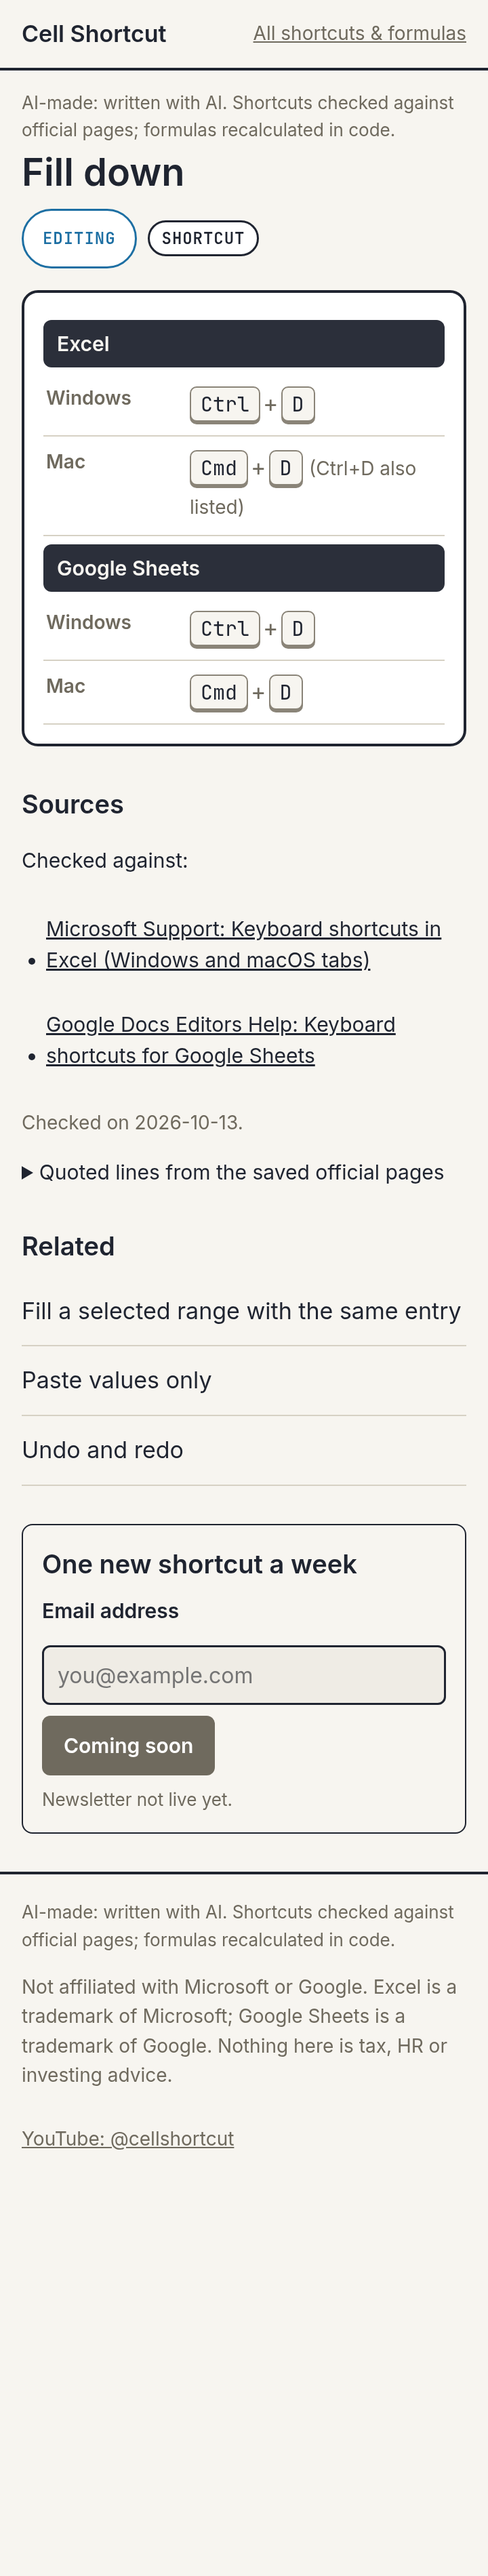
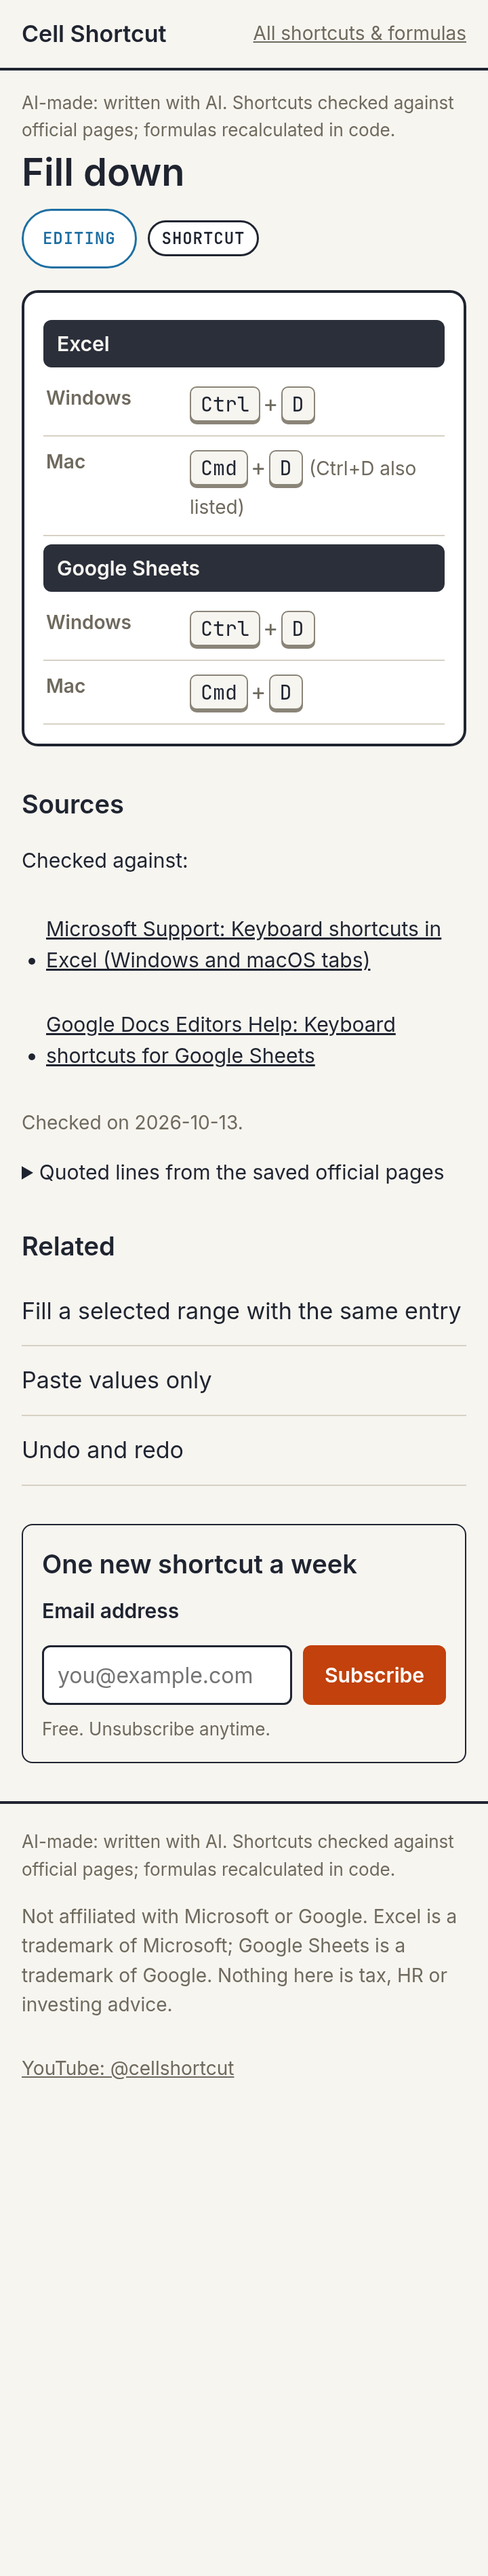
Live Kit form 10040110 (POST email_address, fetch+aria-live inline result, submit fallback), accent button, focus ring; brand stays Cell Shortcut

Changed region(s): [[0.0306, 0.6211, 0.9167, 0.8384], [0.9472, 0.6832, 0.9778, 0.7142]]

diff --git a/static/site.js b/static/site.js
@@ -1,4 +1,16 @@
 (function(){
+// Newsletter: progressive enhancement. No JS = plain POST to Kit. With JS = fetch + inline aria-live result;
+// on network/CORS failure fall back to a normal form submit.
+document.querySelectorAll('form.nl-form').forEach(function(f){f.addEventListener('submit',function(ev){
+ if(!window.fetch||f.dataset.fallback)return; ev.preventDefault();
+ var out=f.parentNode.querySelector('.nl-result'),btn=f.querySelector('button');btn.disabled=true;out.className='nl-result';out.textContent='Sending…';
+ fetch(f.action,{method:'POST',body:new FormData(f),headers:{'Accept':'application/json'}}).then(function(r){
+  return r.json().catch(function(){return{}}).then(function(j){btn.disabled=false;
+   if(r.ok){out.textContent='Thanks! Check your inbox to confirm your subscription.';f.reset()}
+   else{out.className='nl-result err';out.textContent=(j&&(j.error&&j.error.message||j.message))||'Sorry, that didn’t work. Please check the address and try again.'}})
+ }).catch(function(){f.dataset.fallback='1';f.submit()});
+})});
+
 document.querySelectorAll('[data-copy]').forEach(function(b){b.addEventListener('click',function(){var t=document.getElementById(b.dataset.copy).textContent;
  if(navigator.clipboard)navigator.clipboard.writeText(t).then(function(){b.textContent='Copied';setTimeout(function(){b.textContent='Copy'},1500)})})});
 var q=document.getElementById('q');if(!q)return;var rows=[].slice.call(document.querySelectorAll('.rows li')),f='all';

diff --git a/static/style.css b/static/style.css
@@ -61,3 +61,6 @@ td.result{outline:3px solid var(--accent);outline-offset:-3px;background:color-m
 .rows .kp{display:none;font:13px var(--mono);color:var(--muted);white-space:nowrap}@media(min-width:720px){.rows .kp{display:inline}}
 .hidden{display:none!important}
 a.chip{display:inline-flex;align-items:center;min-height:44px;padding:0 14px}
+.nl form.nl-form button:not([disabled]){background:var(--accent-btn,#C2410C);color:#fff;min-height:44px} /* #C2410C on white text = 5.18:1 */
+.nl input:focus,.nl input:focus-visible{outline:2px solid var(--ink);outline-offset:2px}
+.nl-result{margin:8px 0 0;font-size:15px;font-weight:600;color:var(--ink)}.nl-result:empty{display:none}.nl-result.err{color:#9F1D1D}

diff --git a/scripts/build.py b/scripts/build.py
@@ -31,8 +31,10 @@ def newsletter():
     if act.startswith("https://"):
         fid = E(cfg.get("kit_form_id", ""))
         return (f'<section class="nl" data-newsletter="kit" data-kit-form-id="{fid}"><h2>One new shortcut a week</h2>'
-                f'<form method="post" action="{E(act)}"><label for="{nid}">Email address</label><input id="{nid}" type="email" name="email_address" required placeholder="you@example.com" aria-describedby="{did}">'
-                f'<button type="submit" aria-describedby="{did}">Subscribe</button></form><p class="small" id="{did}">Free. Unsubscribe any time.</p></section>')
+                f'<form class="nl-form" method="post" action="{E(act)}"><label for="{nid}">Email address</label>'
+                f'<input id="{nid}" type="email" name="email_address" required autocomplete="email" placeholder="you@example.com">'
+                f'<button type="submit">Subscribe</button></form>'
+                f'<p class="nl-result" role="status" aria-live="polite"></p><p class="small">Free. Unsubscribe anytime.</p></section>')
     return ('<section class="nl" data-newsletter="kit-placeholder"><h2>One new shortcut a week</h2>'
             '<!-- Kit Free form slot: set KIT_FORM_ACTION (+ KIT_FORM_ID) at build time to enable. -->'
             f'<form onsubmit="return false"><label for="{nid}">Email address</label><input id="{nid}" type="email" placeholder="you@example.com" aria-describedby="{did}" disabled>'

diff --git a/README.md b/README.md
@@ -13,4 +13,8 @@ Needs: Python 3 + `openpyxl`, LibreOffice (`soffice`, 24.8+; box has 25.2.3), Go
 Data: `data/entries.json` (Growth), `data/publish.json` (milestone list), report `data/gate-report.json`. Schema + template mapping: `SCHEMA.md`. Design spec: `design/bet-c-template.md`. Growth's tooling/README: `growth/`.
 Template: `templates/base.html`, `static/style.css`, `static/site.js`; fonts self-hosted in `static/fonts` (OFL).
 
-Config (`site.config.json`, gitignored; defaults in `site.config.example.json`; env vars override): `SITE_URL` (sitemap base, default https://example.invalid), `KIT_FORM_ACTION` (Kit form POST URL) and `KIT_FORM_ID`. With none set, a disabled newsletter placeholder renders. `KIT_API_KEY` is a secret and is never written into the site. YouTube link: youtube.com/@cellshortcut. `robots.txt` disallows all and pages carry `noindex` during preview.
+Config (`site.config.json`, gitignored; defaults in `site.config.example.json`; env vars override): `SITE_URL` (sitemap base, default https://example.invalid), `KIT_FORM_ACTION` (Kit form POST URL) and `KIT_FORM_ID`. With `kit_form_action` empty, a disabled placeholder renders. `KIT_API_KEY` is a secret and is never written into the site. YouTube link: youtube.com/@cellshortcut. `robots.txt` disallows all and pages carry `noindex` during preview.
+
+## Newsletter (Kit Free)
+Live form posts to Kit form 10040110: `https://app.kit.com/forms/10040110/subscriptions`, field `email_address`. It's our own HTML form, with no Kit script or styling. The id/action are not secret and are committed in `site.config.example.json`, so a restore keeps them. For a local override, run `cp site.config.example.json site.config.json` (gitignored), or set the env vars `KIT_FORM_ACTION` and `KIT_FORM_ID`. Never store `KIT_API_KEY` in either file; the build doesn't render it.
+Behaviour: without JS, it's a normal POST. With JS, it uses fetch (`Accept: application/json`) and shows the result inline (`aria-live="polite"`); on a network/CORS error it falls back to a normal submit. A CORS preflight returned `Access-Control-Allow-Origin: *`; the real POST response format is untested (no test signup was made).
